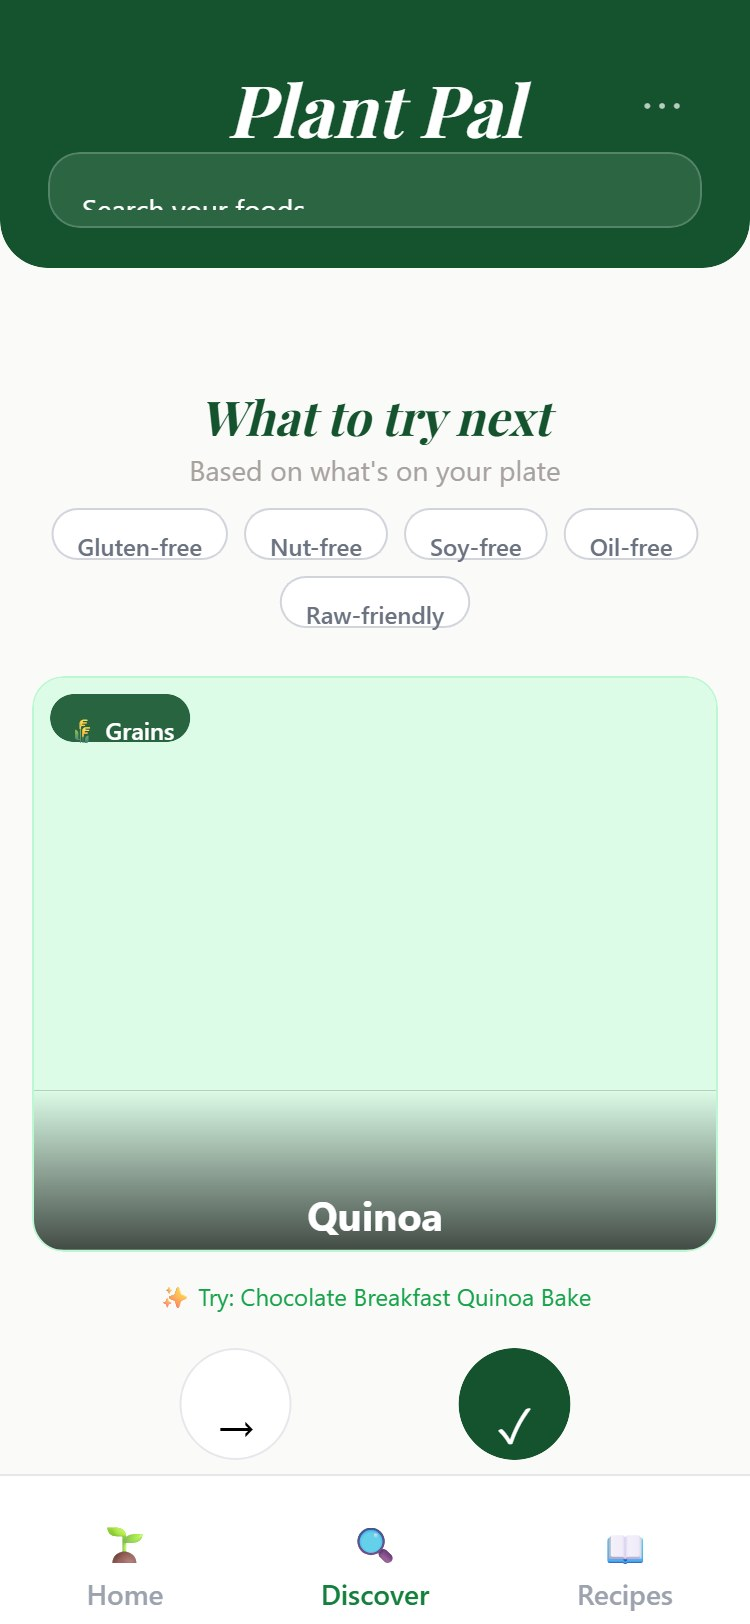
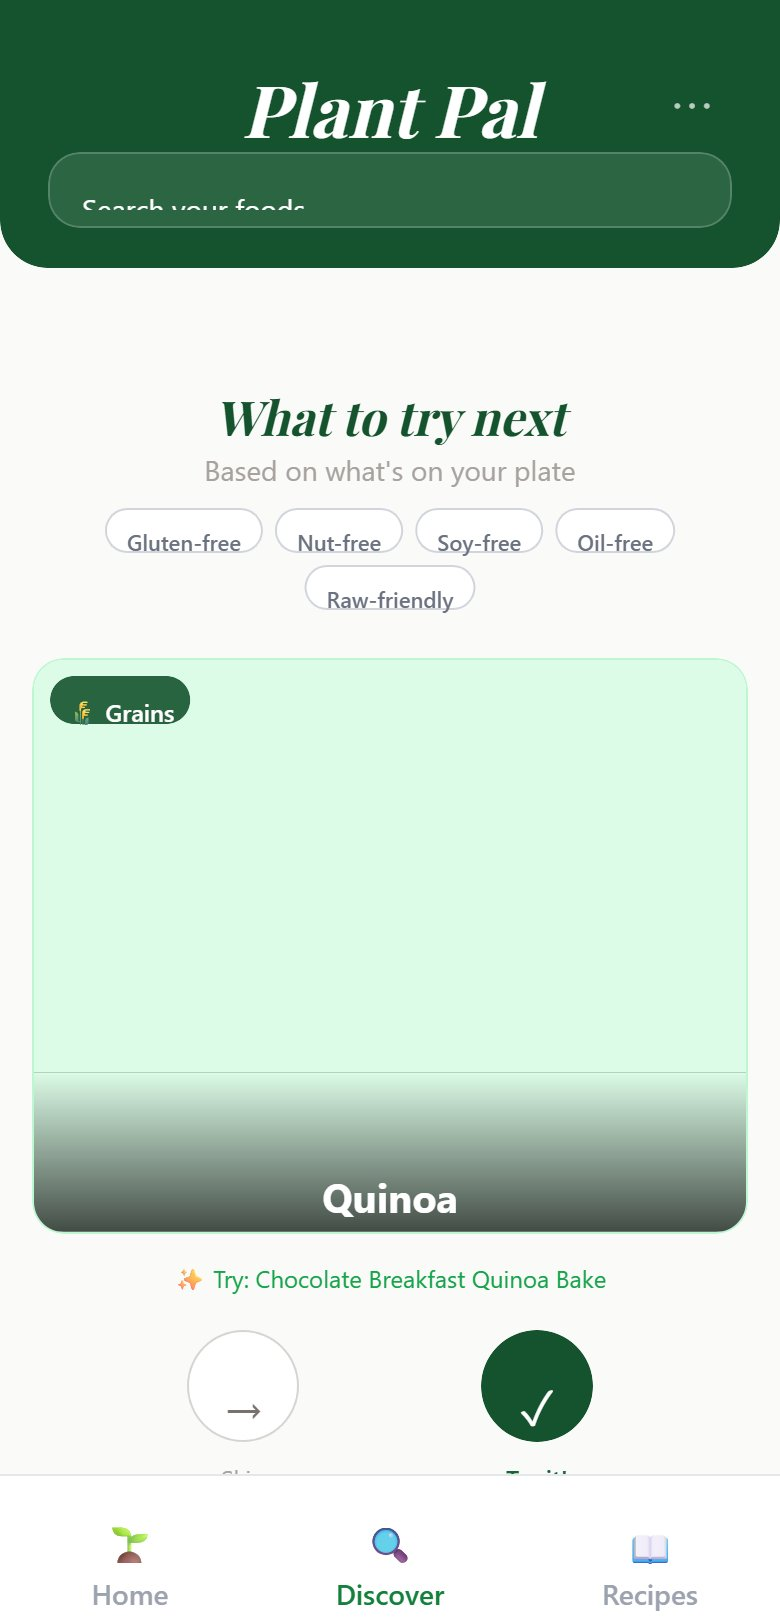
Fix layout: smaller chips, heading, and update screenshots
- TryingNow heading text-xl → text-base to prevent card overflow
- Dietary filter chips: gap-2 px-3 py-1 → gap-1.5 px-2.5 py-0.5 text-[11px]
- Recipe filter chips: text-sm → text-xs with tighter padding
- Retake all 3 UI screenshots showing fixed layout

diff --git a/src/app/page.tsx b/src/app/page.tsx
@@ -280,12 +280,12 @@ export default function Home() {
         <div className="max-w-md mx-auto py-6 px-4">
           <h2 className={`text-2xl font-bold italic text-center mb-1 ${dm ? 'text-green-300' : 'text-green-900'}`} style={{ fontFamily: 'var(--font-display)' }}>What to try next</h2>
           <p className={`text-sm text-center mb-4 ${dm ? 'text-gray-500' : 'text-stone-400'}`}>Based on what&apos;s on your plate</p>
-          <div className="flex flex-wrap gap-2 justify-center mb-6">
+          <div className="flex flex-wrap gap-1.5 justify-center mb-6">
             {ALL_DIETARY_TAGS.map(({ tag, label }) => (
               <button
                 key={tag}
                 onClick={() => toggleTag(tag)}
-                className={`px-3 py-1 rounded-full text-xs font-medium border transition-colors ${activeTags.includes(tag) ? 'bg-green-700 text-white border-green-700' : (dm ? 'bg-gray-800 text-gray-400 border-gray-600 hover:border-green-600' : 'bg-white text-gray-500 border-gray-300 hover:border-green-400')}`}
+                className={`px-2.5 py-0.5 rounded-full text-[11px] font-medium border transition-colors ${activeTags.includes(tag) ? 'bg-green-700 text-white border-green-700' : (dm ? 'bg-gray-800 text-gray-400 border-gray-600 hover:border-green-600' : 'bg-white text-gray-500 border-gray-300 hover:border-green-400')}`}
               >
                 {label}
               </button>

diff --git a/src/components/RecipeBrowser.tsx b/src/components/RecipeBrowser.tsx
@@ -18,10 +18,10 @@ export function RecipeBrowser({ darkMode, recipeFilter, onFilterChange }: Recipe
         Recipes
       </h2>
       <p className={`text-sm mb-4 ${dm ? 'text-gray-500' : 'text-stone-400'}`}>{recipes.length} plant-based recipes</p>
-      <div className="flex flex-wrap gap-2 mb-6">
+      <div className="flex flex-wrap gap-1.5 mb-6">
         {recipeCategories.map(cat => (
           <button key={cat} onClick={() => onFilterChange(cat)}
-            className={`px-3 py-1 rounded-full text-sm ${recipeFilter === cat ? 'bg-green-900 text-white' : dm ? 'bg-gray-700 text-gray-300 hover:bg-gray-600' : 'bg-stone-100 text-gray-700 hover:bg-stone-200'}`}
+            className={`px-2.5 py-0.5 rounded-full text-xs ${recipeFilter === cat ? 'bg-green-900 text-white' : dm ? 'bg-gray-700 text-gray-300 hover:bg-gray-600' : 'bg-stone-100 text-gray-700 hover:bg-stone-200'}`}
           >
             {cat === 'all' ? 'All' : cat.charAt(0).toUpperCase() + cat.slice(1)}
           </button>

diff --git a/src/components/TryingNow.tsx b/src/components/TryingNow.tsx
@@ -29,7 +29,7 @@ export function TryingNow({ exploringFoods, allFoodNames, darkMode, onAddFood, o
 
   return (
     <div className={`w-full lg:w-72 p-4 rounded-2xl shadow-lg ${dm ? 'bg-gray-800' : 'bg-white'}`}>
-      <h2 className={`text-xl font-bold italic mb-3 ${dm ? 'text-green-300' : 'text-green-900'}`} style={{ fontFamily: 'var(--font-display)' }}>Trying Now</h2>
+      <h2 className={`text-base font-bold italic mb-3 ${dm ? 'text-green-300' : 'text-green-900'}`} style={{ fontFamily: 'var(--font-display)' }}>Trying Now</h2>
 
       {exploringFoods.length === 0 && (
         <p className={`text-sm mb-4 ${dm ? 'text-gray-500' : 'text-gray-400'}`}>Add foods you&apos;re experimenting with here!</p>